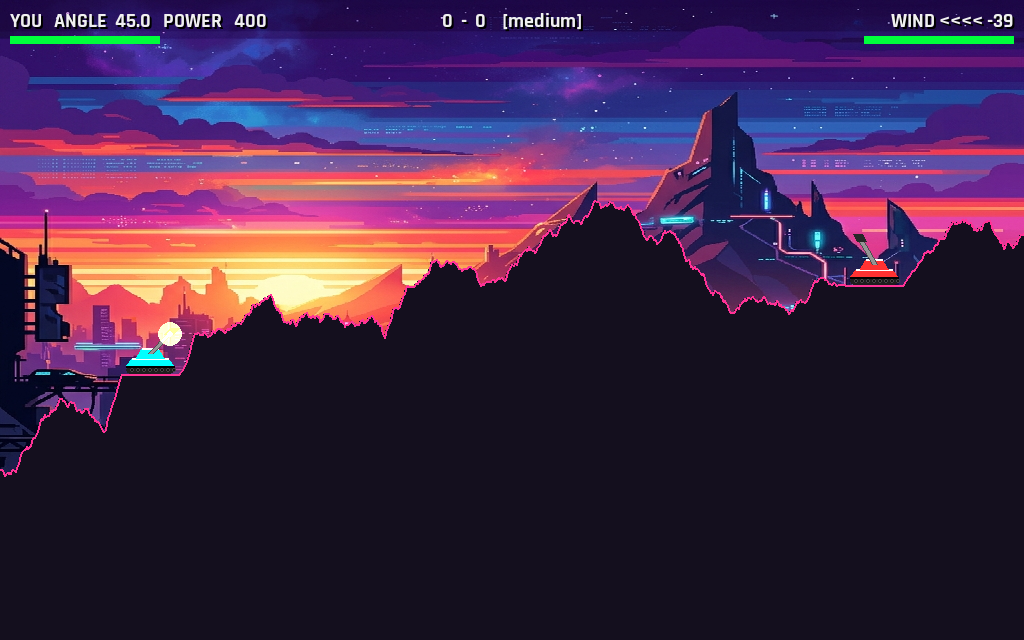
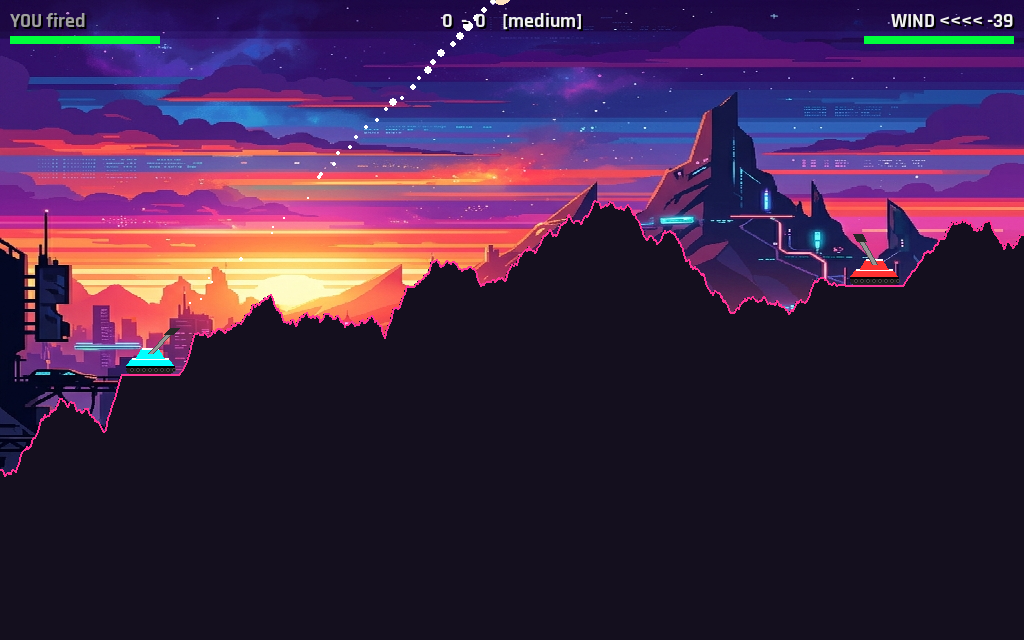
docs: add particle smoke trail to midflight screenshot

diff --git a/scripts/take_screenshot.py b/scripts/take_screenshot.py
@@ -22,9 +22,19 @@ async def main():
     pygame.image.save(game.screen, "docs/screenshots/00_cover.png")
     
     # 2. Midflight
-    game.state = "player_turn"
+    game.state = "flight"
+    game.current_tank = game.player
     game.player.angle_deg = 45
-    game.flying = Projectile(x=game.player.x + 20, y=game.player.y - 40, vx=100, vy=-100)
+    game.player.power = 700
+    game._fire(game.player)
+    # simulate some frames so it flies and generates a smoke trail
+    for _ in range(40):
+        if getattr(game, "particles", None):
+            game.particles.update(1.0 / 60.0)
+        if game.flying:
+            game.flying.update(1.0 / 60.0, game.wind)
+            if getattr(game, "particles", None):
+                game.particles.spawn_smoke_trail(game.flying.x, game.flying.y)
     game._render()
     pygame.image.save(game.screen, "docs/screenshots/02_midflight.png")
     